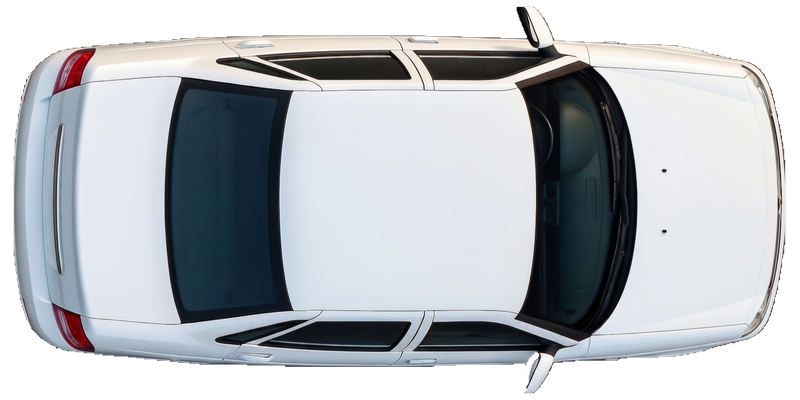
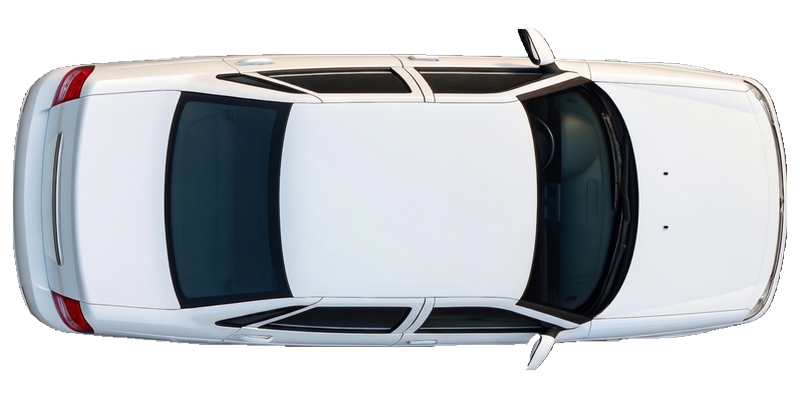
Fix white hatchback (sedan-13) rendering larger than its 13 siblings
Traced the "colored sedans look narrower than white" report to sedan-13:
its source photo comes from a different shoot than the other twelve real-
photo colors (they share identical raw pixel dimensions; it doesn't), and
measured ~12% "fatter" on its own bbox. The independent-per-photo fit was
scaling it up to fill that extra apparent width — it wasn't the colored
cars rendering small, sedan-13 was rendering large.

All thirteen members of this body now share one canonical footprint
(776x343 within the 800x400 canvas) instead of each being scaled from its
own measured content bbox, so a mismatched source photo can't reintroduce
this again. sedan-13 gets a mild (~12%) resize to match; imperceptible at
board scale and confirmed clean by eye.

Also dropped traffic-sedan-26: added in the previous pass as an intended
"silver" variant, but its source (IMG_2914) turns out to be white, not
silver — investigating this pointed at it being a near-duplicate of
sedan-13 rather than a distinct color, consistent with the earlier "no
duplicate colors" dedupe pass.

Claude-Session: https://claude.ai/code/session_01YEvtCcAdgY7dadycdUk8Rp

diff --git a/js/art.js b/js/art.js
@@ -68,13 +68,22 @@ const SEDAN_PHOTOS = [
   // board — same "doesn't belong in rotation" call as the shadowed Countach.
   { img: 'assets/cars/traffic-sedan-11.png', fixed: true },  // Gulf GT40 (numbered race car)
   { img: 'assets/cars/traffic-sedan-12.png', fixed: true },  // silver 300SL
-  // generic hatchback body, all real-photo colors (see note above):
+  // generic hatchback body, all real-photo colors (see note above). Every
+  // entry here shares the exact same fitted footprint (776x343 within the
+  // 800x400 canvas) rather than each being scaled from its own measured
+  // bbox — sedan-13's source photo turns out to be from a different shoot
+  // than the other twelve (they share identical raw dimensions; it doesn't)
+  // and independently measured ~12% "fatter", which is what actually caused
+  // the "colored cars are narrower than the white one" bug: it wasn't the
+  // colored ones that were wrong, sedan-13 was oversized. A second same-body
+  // photo (traffic-sedan-26, meant to be a silver variant) turned out on
+  // inspection to be white too — dropped as a duplicate color rather than
+  // kept alongside sedan-13.
   { img: 'assets/cars/traffic-sedan-13.png', fixed: true },  // white
   { img: 'assets/cars/traffic-sedan-21.png', fixed: true },  // purple + yellow stripes
   { img: 'assets/cars/traffic-sedan-22.png', fixed: true },  // Biarritz blue
   { img: 'assets/cars/traffic-sedan-24.png', fixed: true },  // yellow taxi
   { img: 'assets/cars/traffic-sedan-25.png', fixed: true },  // police K-9 unit
-  { img: 'assets/cars/traffic-sedan-26.png', fixed: true },  // silver
   { img: 'assets/cars/traffic-sedan-27.png', fixed: true },  // dark green
   { img: 'assets/cars/traffic-sedan-28.png', fixed: true },  // rusted/weathered
   { img: 'assets/cars/traffic-sedan-29.png', fixed: true },  // gunmetal gray